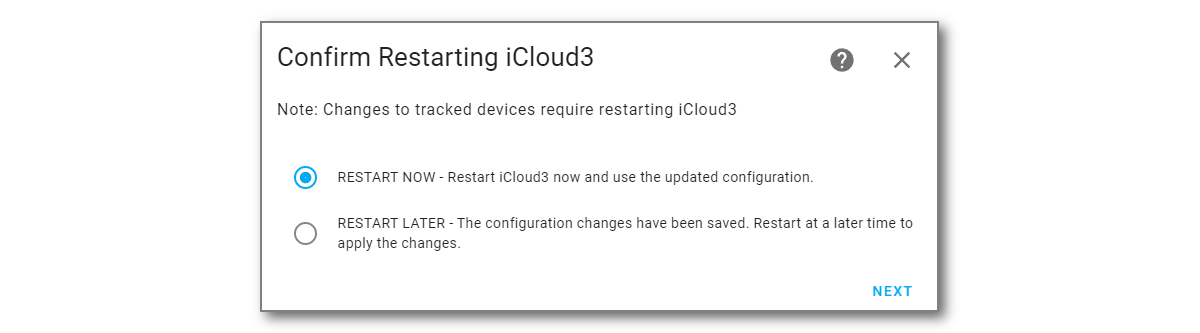
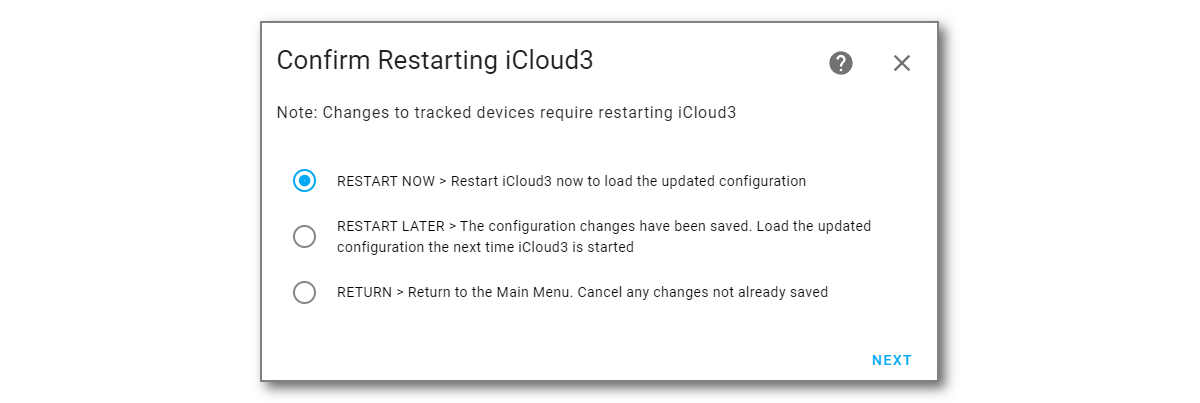
v3.0 Documentation

diff --git a/docs/chapters/0.1-migrating-v2.4-to-v3.0.md b/docs/chapters/0.1-migrating-v2.4-to-v3.0.md
@@ -1,6 +1,6 @@
-# Migrating iCloud3 from v2.4.x to v3
+# Migrating iCloud3 from v2.4.x to v3.0
 
-iCloud3 v3 is a true Home Assistant Integration that is configured on the **HA Settings > Devices & Settings > Integration > iCloud3** screen. That means the yaml parameters in the *configuration.yaml* and *config_ic3.yaml* files are no longer used or needed. 
+iCloud3 v3 is a true Home Assistant Integration that is configured on the **HA Settings > Devices & Services > Integration > iCloud3** screen. That means the yaml parameters in the *configuration.yaml* and *config_ic3.yaml* files are no longer used or needed. 
 
 When iCloud3 is added to HA on Integrations screen, the parameters in these files are migrated to the new internal files (*config/.storage/icloud3/configuration*). The migration should be painless but it is required that that they be reviewed before they will be used. This is done on the configuration screens using *The Configuration Wizard* described in general in the *iCloud3 Components* chapter and in detail in the *Configuration Parameters* chapter.
 
@@ -11,24 +11,26 @@ Generally, you will do the following:
 
    !> BETA VERSION - Follow the Beta Install Instructions instead of using HACS.
 
-2. Add the iCloud3 integrations component (*iCloud3 Configuration Wizard*). 
+2. Add the iCloud3 integration on the HA Devices & Services > Integrations screen (*iCloud3 Configuration Wizard*). 
 
 3. Open the *Configuration Wizard* and review each of the screens. The most important screens are:
    - *iCloud Account Login Credentials* screen - Verify the username/password. Select the *password display icon* to see them.
 
    - *iCloud3 Devices > iCloud3 Device Tracker Entities* - Review each of the devices you are tracking. 
 
-      The iCloud3 device_tracker entity name does not have to match the name on the iPhone or other device any longer. It can be anything you like. The FamShr (Family Sharing List members) are selected from a list using data returned from your iCloud account. The actual name on the *Settings App > General > About > Name* field (Gary-iPhone) is displayed in these lists. 
+      - The iCloud3 device_tracker entity name does not have to match the name on the iPhone or other device any longer. It can be anything you like. The FamShr (Family Sharing List members) are selected from a list using data returned from your iCloud account. The actual name on the *Settings App > General > About > Name* field (Gary-iPhone) is displayed in these lists. 
    
-      Verify the selected devices are correct and reselect it if is not. Do the same for the Find-My-Friends, the iOS App and the picture that is displayed on the device_tracker entity and the badge sensor.
+      - Verify the selected devices are correct and reselect it if is not. Do the same for the Find-My-Friends, the iOS App and the picture that is displayed on the device_tracker entity and the badge sensor.
    
-      IMPORTANT: All devices are set to *Inactive* when they are migrated and will not be tracked until the *Tracking Mode* parameter is changed to *Tracked*. Alert messages are displayed at the top of the screen.
+        IMPORTANT: All devices are set to *Inactive* when they are migrated and will not be tracked until the *Tracking Mode* parameter is changed to *Tracked*. Alert messages are displayed at the top of the screen.
    
    - Go through the other screens, review the parameter values and change any that did not migrate correctly.
    
-4. Exit *The Configuration Wizard*. Select *Restart Now*, then click *Submit* to restart iCloud3.
+4. Exit *The Configuration Wizard*, select *Restart Now*, then select *Submit* to restart iCloud3.
 
-   The device_tracker and sensor entities will be recreated, tracking will resume and the Event Log will redisplay the startup process stages before the devices are relocated.
+   - The device_tracker and sensor entities will be recreated, tracking will resume and the Event Log will redisplay the startup process stages before the devices are relocated.
+
+   - The Event Log program was updated and a browser refresh will probably be needed.
 
 5. If everything appears to work properly, delete (or comment out) the iCloud3 v2.4 parameters in the *configuration.yaml* file.
 
@@ -49,7 +51,7 @@ These steps are described in detail below.
   6. **Restart Home Assistant**.
 
 - **Hard (but not too hard) Way** - Manual Installation
-  1. Download the *icloud3.zip* file from the iCloud3 GitHub Repository Released Page [here](https://github.com/gcobb321/icloud3_v3/releases). Selects *Assets* at the bottom, then the zip file, then select the location on your computer to save it.
+  1. Download the *icloud3.zip* file from the iCloud3 GitHub Repository Released Page [here](https://github.com/gcobb321/icloud3_v3/releases). Selects *Assets* at the bottom, then the zip file. The file save screen will be displayed, select the location on your computer and save the zip file.
   2. Unzip the file into the *config/custom_components/icloud3* directory on your Home Assistant server (ex.: Raspberry Pi)
   3. **Restart Home Assistant**
 
@@ -63,7 +65,7 @@ iCloud3 is a Home Assistant Integration and is configured on the Integrations sc
 
 1. Select **☰ > HA Settings > Devices & Services > Integrations**.
 2. Select **+ Add Integration** in the lower-right hand corner.
-3. Type **iCloud3**. Then select **iCloud3 v3** from the list of Integrations. The iCloud3 v3 entry will be added to the *Integrations* screen.
+3. Type **iCloud3**. Then select **iCloud3 v3** from the list of Integrations. *Do not select iCloud3, it is v2.4.* The iCloud3 v3 entry will be added to the *Integrations* screen.
 
 
 
@@ -74,58 +76,43 @@ The iCloud3 parameters need to be reviewed to verify the migration was performed
 
 Open *The Configuration Wizard*:
 
-1. Select **☰ > HA  Settings > Devices & Services > Integrations** if the Integrations screen is not already displayed from Step #2 above.
+1. Select **☰ > HA  Settings > Devices & Services > Integrations** if the Integrations screen is not already displayed.
 2. Select **iCloud3 > Configure** as shown below.
 
-![](../images/cf-Configure.png)
+![](../images/cf-configure.png)
 
 3. The Menu screen is displayed.
 
    ![](../images/cf-menu-1.png)
 
-	
+### - Step #3.1 - Review the *iCloud Account & Login Credentials* screen
 
-### Step #3.1 - Review the *iCloud Account & Login Credentials* screen  {docsify-ignore}
+This screen is used to indicate the data source used for location information (iCloud, iOS App) and the username/password of your Apple iCloud account.
 
-1. Select the **Password Display Icon** at the end of the username and password fields to display their values. Correct them if necessary.
-
+1. Select the **Password Display Icon** at the end of the username and password fields to display their values. Correct them if necessary. 
 2. Select **Login**, then select **Submit**.  The iCloud account will be logged into and the lists of iPhones, iPads and other devices associated with the account will be set up. 
-
 3. Select **Save**, then select **Submit** to return to the menu.
-
-
-
 
 ![](../images/cf-acct-login.png)
 
 Notes: 
-
-1. iCloud3 will attempt to do a login when the it is loaded by HA so the username & password will have already been filled in.
-
-2. The password is encrypted when it is saved in the configuration file.
-
+1. When iCloud3 starts, you are logged into your Apple iCloud account. The account username/password is shown on the *LOGIN Action* line (gc......@gm......./Gc......).
+2. The password is encrypted when it is saved in the configuration file
 3. The username and password are not required if you are only tracking with the iOS App,
-
-4. Apple account authentication - If you are signing into the Apple iCloud Account for the first time, the account access token has expired or your account username or password has changed, you will get an alert on your phone or other device that someone is signing into your Apple account. 
-
+4. Apple account authentication - If you are signing into the Apple iCloud Account for the first time, the account access token has expired or your account username or password has changed and you will get an alert on your phone or other device that someone is signing into your Apple account. 
    1. Select **Allow** on your phone or other trusted device, the screen showing the 6-digit verification code is displayed
+   2. The code entry form below should display on your computer. If it does not, select *Enter Verification Code*, then select Submit.
+   3. From time-to-time, you will have to reauthenticate iCloud3's access to your Apple iCloud account. This is discussed later. 
+   4. Enter the 6-digit verification code, then select *Submit*.
+   5. 
+   ![](../images/auth-process-3-code-entry.png)
 
-   2. The code entry form below should display. If it does not, select *Enter Verification Code*, then select Submit.
+### - Step #3.2 - Review the *iCloud3 Device Tracker Entities* screen
 
-   3. Enter the 6-digit verification code, then select *Submit*. 
-
-      ![](../images/auth-process-3-code-entry.png)
-
-   4. From time-to-time, you will have to reauthenticate iCloud3's access to your Apple iCloud account. This is discussed later. 
-
-
-
-### Step #3.2 - Review the *iCloud3 Device Tracker Entities* screen  {docsify-ignore}
-
-All of the devices being tracked are listed on this screen. 
+The devices from the configuration.yaml file were migrated from v2.4 to v3.0 and are listed on this screen. On this screen, the device to be updated is selected, new devices you want to track are added and unwanted devices and devices you no longer want to track are deleted.
 
 1. Select the device to be updated.
-1. Select **Update Device**, then select **Next** to display the *Update Tracked iCloud3 Device* screen.
+2. Select **Update Device**, then select **Next** to display the *Update Tracked iCloud3 Device* screen.
 
 ![](../images/cf-device-list.png)
 
@@ -134,30 +121,26 @@ All of the devices being tracked are listed on this screen.
 **Action Options:**
 
 - **Update Device** - This displays the *Update Tracked iCloud3 Device* screen where you configure the device.
-- **Add Device** - Add a new device to be tracked, then specify it's parameters.
-- **Delete Device** - You can delete the selected device , delete all devices or clear the Family Sharing, Find my Friends and iOS App device assignment (use with caution)
-- **Change Device Order** - The devices are displayed on the Event Log screen in the order you add them here. Tracked devices are listed first, followed by Monitored devices. This screen lets you change the order they will be listed on the Event Log.
+- **Add Device** - Add a new device to be tracked.
+- **Delete Device** - Delete the selected device , delete all devices or clear the Family Sharing, Find my Friends and iOS App device assignment (use with caution)
+- **Change Device Order** - The devices are displayed on the Event Log screen in the order you added them (and displayed here). Tracked devices are listed first, followed by Monitored devices. The order can be changed on the *Change Device Order* screen.
 
 
 
-### Step #3.3 - Review the *Update Tracked iCloud3 Device* screen  {docsify-ignore}
+### - Step #3.3 - Review the *Update Tracked iCloud3 Device* screen
+
 
 This screen specifies various parameters used by iCloud3 to track the device. The major parameters are:
-
-- The Family Sharing List and the Find-my-Friends device from your iCloud account that is associated with this iCloud3 device.
-- The iOS App device tracker entity tha will be monitored for location changes, zone enter/exit triggers and battery information.
-- The picture to be displayed on the *device_tracker.[devicename]* entity and the *sensor.[devicename]_badge* entity.
+1. The Family Sharing List and the Find-my-Friends device from your iCloud account that is associated with this iCloud3 device.
+2. The iOS App device tracker entity tha will be monitored for location changes, zone enter/exit triggers and battery information.
+3. The picture to be displayed on the *device_tracker.[devicename]* entity and the *sensor.[devicename]_badge* entity.
 
 Verify the parameters were migrated correctly and make any necessary changes.
 
-Review each of  the devices:
-
-1. Set the *Tracking Mode* parameter of the devices you want to track to *Track*.
-
-2. Make any other changes necessary.
-
-3. Select *Save* to save the changes.
-
+Do the following to review each of  the devices:
+1.	Set the *Tracking Mode* parameter of the devices you want to track to *Track*
+2.	Make any other changes necessary.
+3.	Select *Save* to save the changes.
 
 ![](../images/cf-device-update.png)
 
@@ -167,7 +150,7 @@ Review each of  the devices:
 
 
 
-### Step #3.4 - Review the *Sensors* selection screen
+### - Step #3.4 - Review the *Sensors* selection screen
 
 This screen specifies the sensors that are created and updated during tracking. Review this screen if you have customized the sensors being used with the *create_sensors* or *exclude_sensors* parameter.
 
@@ -245,5 +228,21 @@ The results of this process are shown in the Event Log and described in *Event L
 
 - Check the Event Log (it should display something) for error messages.
 - Check the HA Log file (*config/home-assistant.log*)
-- Verify that the device_tracker and sensor entities are set up. The *Devices & Settings > Integrations > iCloud3* entry should show at least one device_tracker and some entities for that device.
+- Verify that the device_tracker and sensor entities are set up. The *Devices & Services > Integrations > iCloud3* entry should show at least one device_tracker and some entities for that device.
+
+-----
+
+### iCloud3 Debug Log
+
+iCloud3 writes logging records to it's *icloud3-debug.log* file. This includes:
+
+- info - Informative messages that display tracking results and some messages on it's operations,
+- debug - Debug messages that provide a lot more information on the data received from the iOS App and the iCloud account, it's operational status, error messages and other records on how the devices are being tracked,
+- rawdata - Rawdata messages log the actual records sent to and received from the iCloud account, actual data received from the iOS App, how zones, devices and sensors are set up and event activity during when iCloud3 is starting.
+
+These records are written to the *config/icloud3-debug.log* file.
+
+Normally, the *info* log level is used. However, when a new version of iCloud3 is installed, the *debug* log level is operational for 5-days. This can provide the information necessary to identify and solve setup, configuration, device assignment,and other errors that may be encountered during this period.
+
+
 
